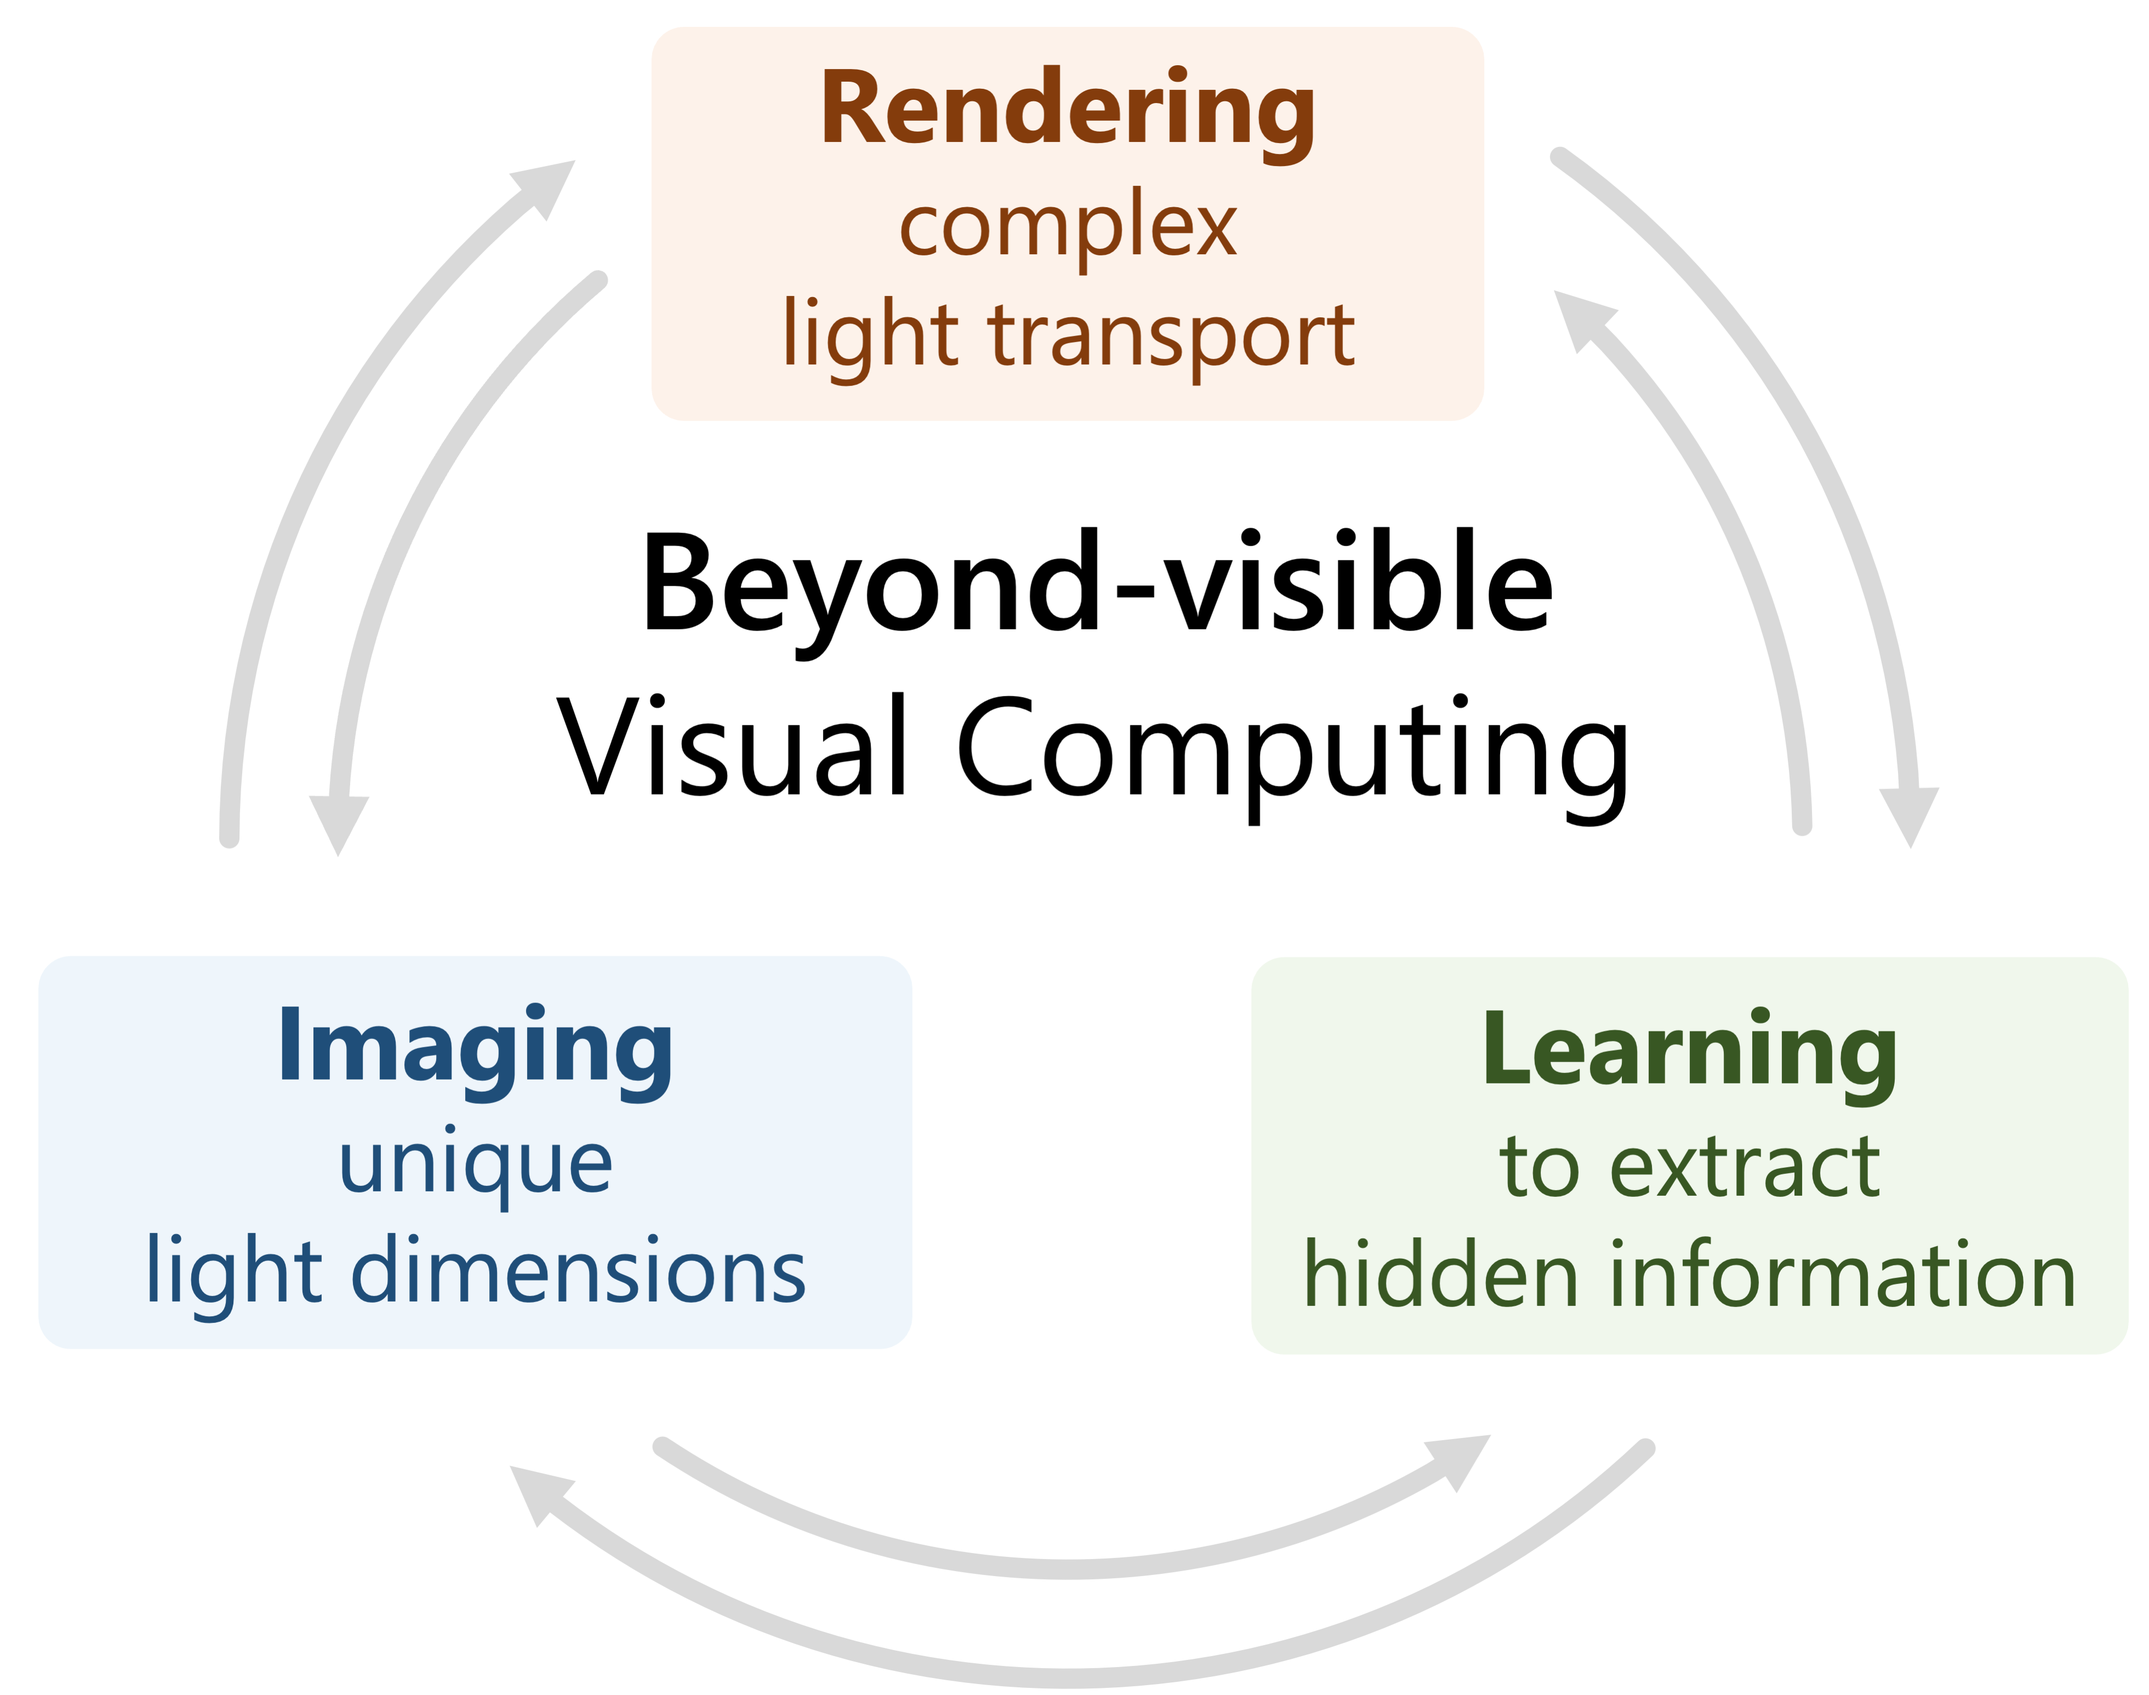
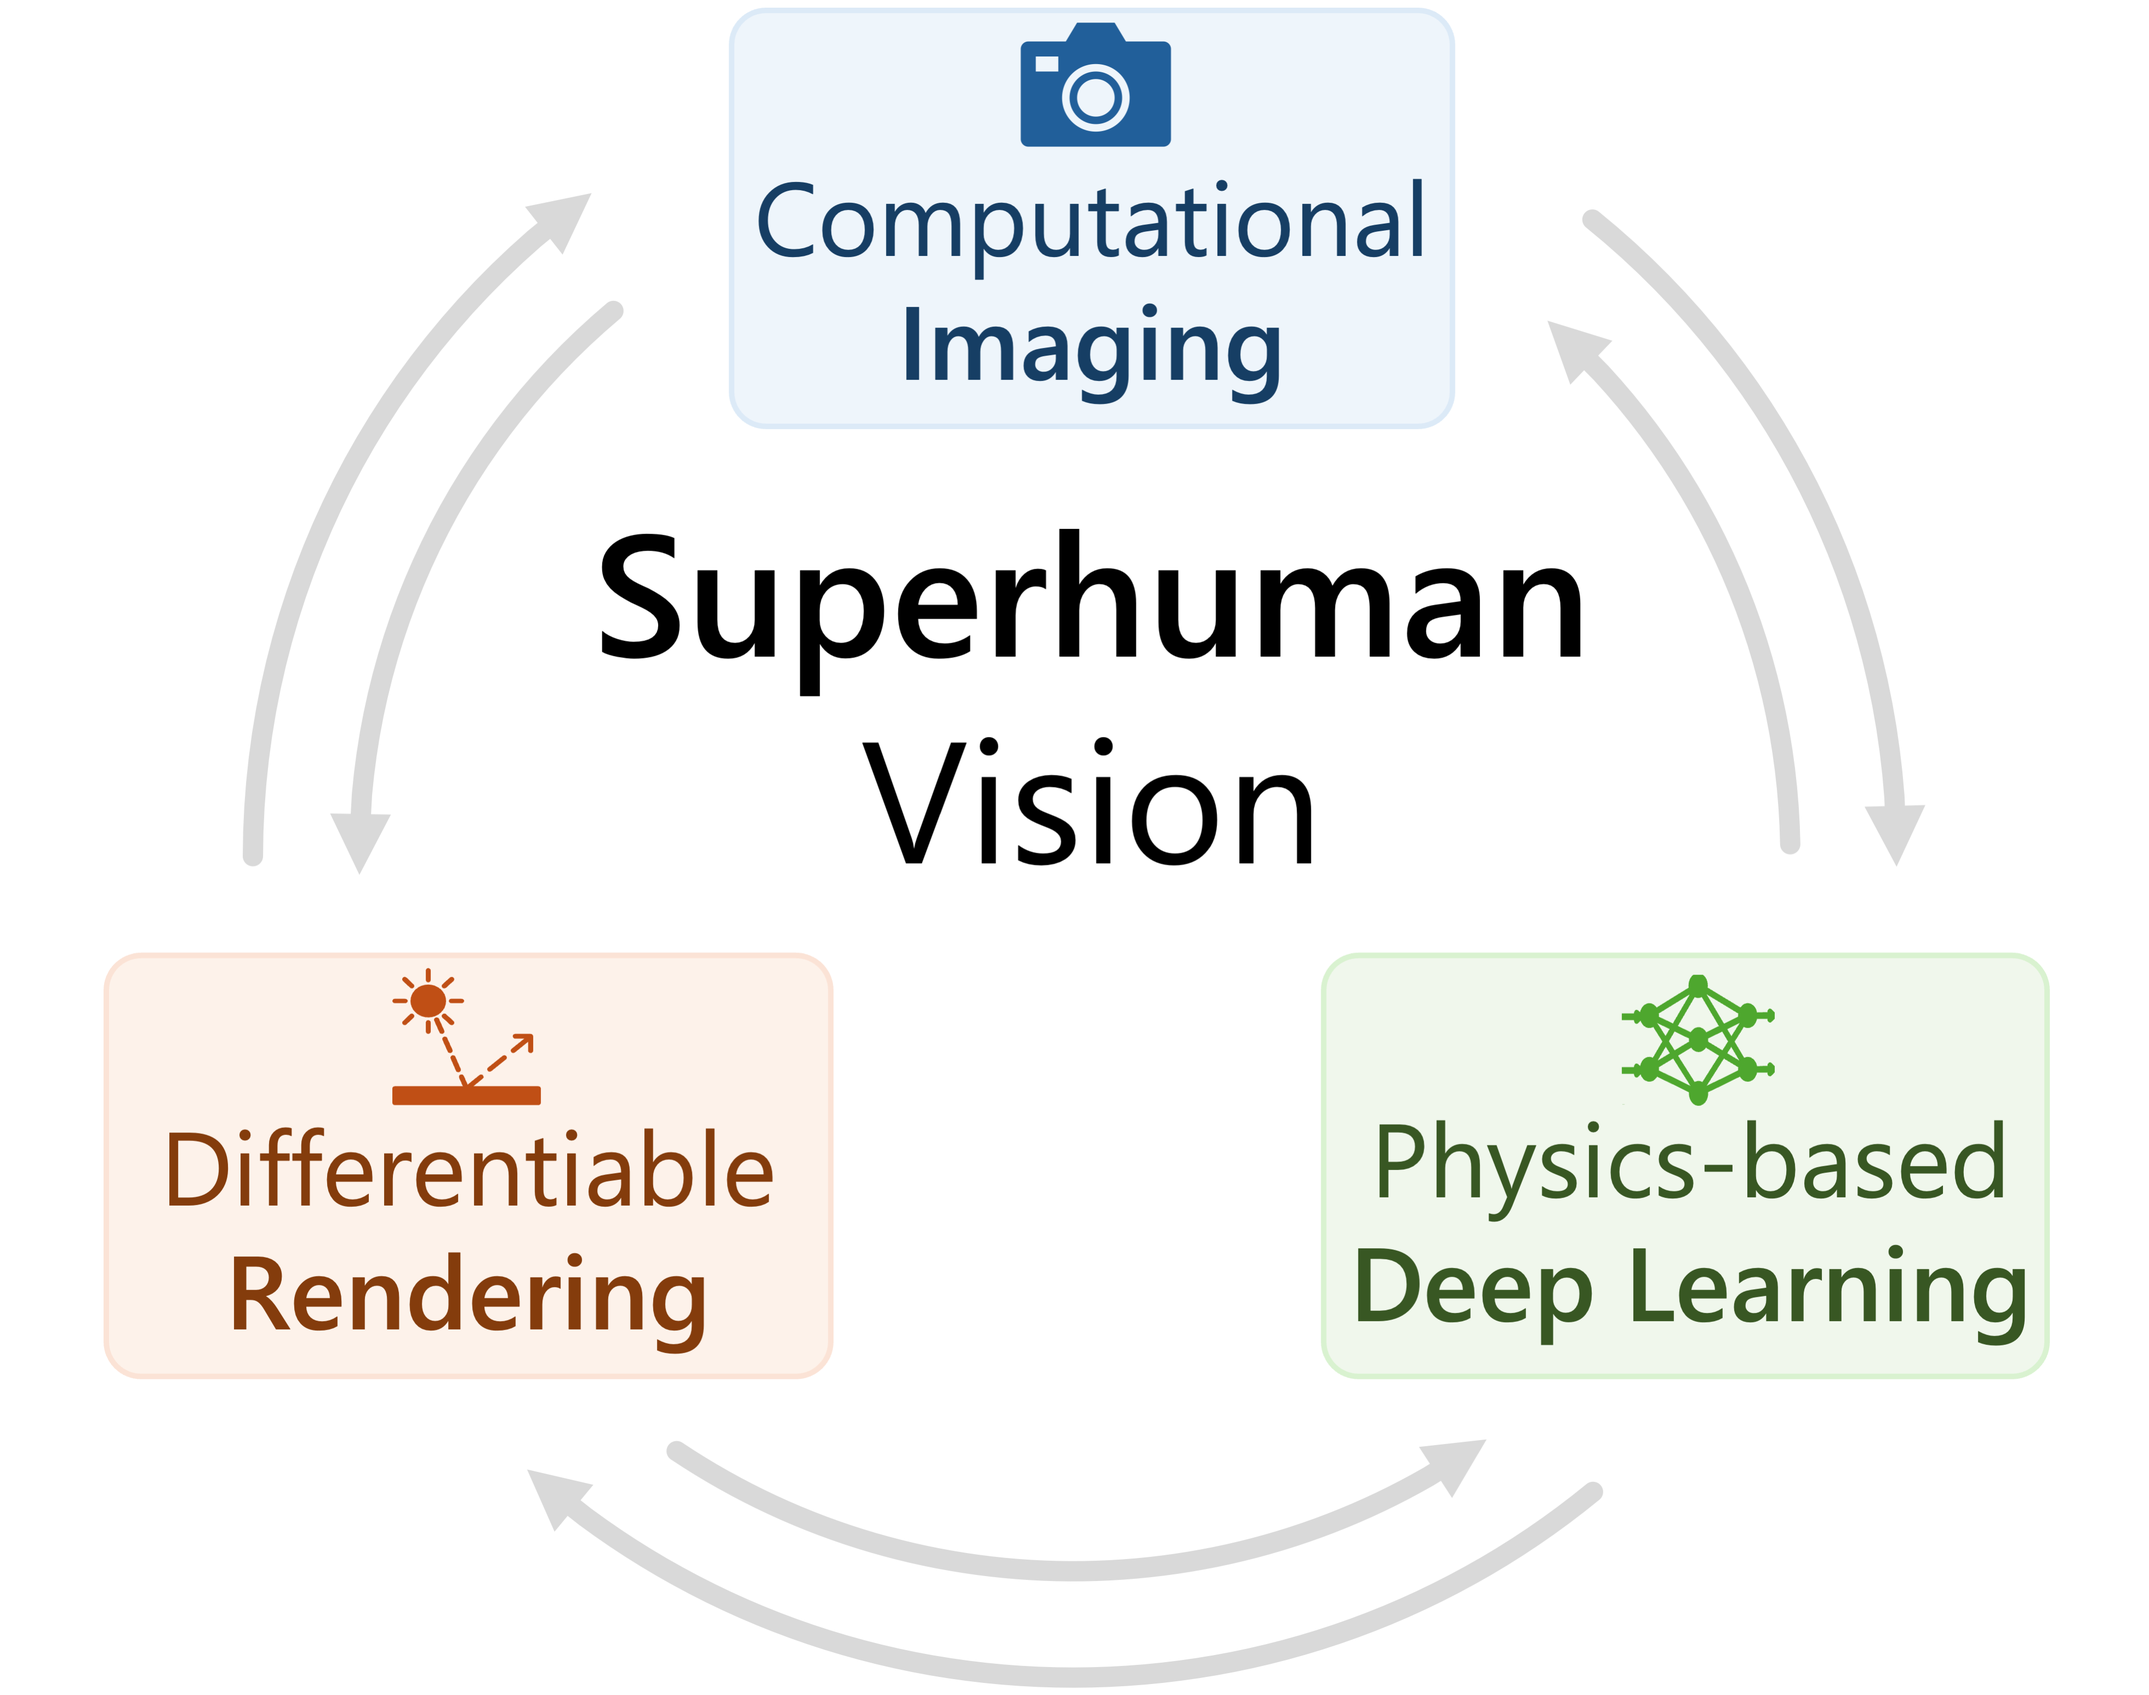
Added statement links and updated overview

diff --git a/index.html b/index.html
@@ -69,6 +69,8 @@
 		});
 	}
 </script>
+<base target="_blank">
+
 </head>
 <body data-gr-ext-installed="" data-new-gr-c-s-check-loaded="14.1186.0">
 <nav class="navbar navbar-expand-md navbar-light fixed-top bg-light" style="background-color: rgb(245,245,245) !important;">
@@ -118,17 +120,17 @@
 <h5> About Me </h5>
 </p>
 <p>
-                I am a Postdoctoral Associate at <a href="https://www.mit.edu/">MIT</a> <a href="https://www.media.mit.edu/">Media Lab</a> with <a href="https://www.media.mit.edu/people/raskar/overview/">Prof. Ramesh Raskar</a>. I received my Ph.D. from <a href="https://www.rice.edu/">Rice University</a> ECE Department where I was advised by <a href="https://computationalimaging.rice.edu/team/ashok-veeraraghavan/">Prof. Ashok Veeraraghavan</a>. My work has been recognized by Ralph Budd best thesis award, OSA best paper prize and fellowships by Texas Instruments and Qualcomm.
+                I am a Postdoctoral Associate at <a href="https://www.mit.edu/">MIT</a> <a href="https://www.media.mit.edu/">Media Lab</a> with <a href="https://www.media.mit.edu/people/raskar/overview/">Prof. Ramesh Raskar</a>. I received my Ph.D. from <a href="https://www.rice.edu/">Rice University</a> ECE Department where I was advised by <a href="https://computationalimaging.rice.edu/team/ashok-veeraraghavan/">Prof. Ashok Veeraraghavan</a>. Before Rice, I obtained B.Tech. and M.Tech from <a href="https://www.iitm.ac.in/">Indian Institute of Technology Madras</a>. My work has been recognized by Rice University's Best Ph.D. Thesis Award, Optica Best Paper Prize and fellowships by Texas Instruments and Qualcomm.
                 <span class="brmedium"></span>
 <span class="paper-title">I am on the 2024-2025 academic job market.</span>
-<span>Feel free to email me if you know of any relevant openings.</span>
+<!-- <span>Feel free to email me if you know of any relevant openings.</span> -->
+<span>Here is my <a href="https://drive.google.com/file/d/1ytAEIgTz-CKn0PFUZq7m9bXBDeXx61e7/view?usp=drive_link" target="_blank" rel="noopener noreferrer">CV</a> and <a href="https://drive.google.com/file/d/1nvqO32xxttCjTnhd0Ng-m3IRuETtA9gM/view?usp=drive_link" target="_blank" rel="noopener noreferrer">research</a>, <a href="https://drive.google.com/file/d/1ewgDrf77qBqqJxSwcrZUUbM9x77rFoyb/view?usp=drive_link" target="_blank" rel="noopener noreferrer">teaching</a> and <a href="https://drive.google.com/file/d/1nMUau1M_KuhFgrL8ygejN8XMtiOwTIkZ/view?usp=drive_link" target="_blank" rel="noopener noreferrer">diversity</a> statements.</span>
 <!-- <span> I am actively looking for self-motivated undergraduate and graduate students to collaborate. Feel free to email me.</span> -->
 </p>
 <h5 style="padding-top: 10px"> Research Overview </h5>
 </p>
 <p>
-                My research lies at the intersection of <span class="title">applied optics</span>, <span class="title">computer graphics</span>, and <span class="title">computer vision</span>. I develop intelligent systems that can uncover visual information <span class="title">invisible</span> to the human eye. Through <span class="title">beyond-visible visual computing</span>, these systems can, for example, <a href="index.html#Publications" id="SeeingAroundCorners" onclick="showPubs('SeeingAroundCorners');smoothScrollToSection(event,'#Publications');" style="">see beyond line-of-sight</a>, <a href="index.html#Publications" id="AR-VR" onclick="showPubs('AR-VR');smoothScrollToSection(event,'#Publications');" style="">reveal material properties of objects</a> and <a href="index.html#Publications" id="StressAnalysis" onclick="showPubs('StressAnalysis');smoothScrollToSection(event,'#Publications');" style="">detect internal mechanical stress</a>. By perceiving beyond human limits, my research enables critical applications such as navigation in adverse conditions, non-invasive biomedical imaging and smart infrastructure monitoring.
-
+                My research is on creating vision systems that surpass human perception, allowing machines to <span class="title">see the invisible</span>. These <span class="title">superhuman vision </span> systems can, for instance, <a href="index.html#Publications" id="SeeingAroundCorners" onclick="showPubs('SeeingAroundCorners');smoothScrollToSection(event,'#Publications');" style="">see beyond line-of-sight</a>, <a href="index.html#Publications" id="AR-VR" onclick="showPubs('AR-VR');smoothScrollToSection(event,'#Publications');" style="">reveal material properties of objects</a> and <a href="index.html#Publications" id="StressAnalysis" onclick="showPubs('StressAnalysis');smoothScrollToSection(event,'#Publications');" style="">detect internal mechanical stress</a>—enabling critical applications such as navigation in adverse conditions, noninvasive biomedical imaging and smart infrastructure monitoring.
 				<!-- My research lies at the intersection of <span class="title">applied optics</span>, <span class="title">computer graphics</span>, and <span class="title">computer vision</span>. I develop end-to-end visual computing systems that leverage novel cameras and algorithms to extract <span class="title">invisible </span> visual information. Through <span class="title">beyond-visible visual computing</span>, these systems can, for example, look around blind corners, reveal material properties of objects and detect internal mechanical stress. Beyond-visible visual computing enables critical applications including robust autonomous navigation, immersive virtual reality and non-invasive biomedical imaging.  -->
 <!-- My research lies at the intersection of <span class="title">applied optics</span>, <span class="title">computer vision</span> and <span class="title">machine learning</span>. I develop computational imaging systems that enhance our vision by allowing us to <span class="title">perceive what was previously invisible</span>. This involves the <span class="title">synergistic co-design</span> of advanced cameras that capture unique light properties and AI algorithms that can analyze complex light phenomena.These systems can transform critical applications including safe autonomous navigation, immersive virtual reality and non-invasive biomedical imaging.  -->
 </p>
@@ -145,18 +147,18 @@
 <image src="images/synergy_figure_website.png" style="width: 310px;"/>
 </div>
 <div class="col-md-8" style="padding-right: 0px; padding-top: 0px; padding-left: 0px">
-<p>
-    My research leverages the <span class="title">synergy between imaging, rendering and learning</span> using three thrusts: 
+<p> 
+    My research leverages the <span class="title">synergy between optics, graphics and machine learning</span> using three pillars: 
 </p>
 <ol class="intro">
 <li>
-<span class="title">Computational imaging of unique light dimensions</span>, such as <a href="index.html#Publications" id="Polarization" onclick="showPubs('Polarization');smoothScrollToSection(event,'#Publications');" style="">polarization</a> and <a href="index.html#Publications" id="Time-of-Flight" onclick="showPubs('Time-of-Flight');smoothScrollToSection(event,'#Publications');" style="">time-of-flight</a>. 
+<span class="title">Computational imaging</span> of unique light dimensions, such as <a href="index.html#Publications" id="Polarization" onclick="showPubs('Polarization');smoothScrollToSection(event,'#Publications');" style="">polarization</a> and <a href="index.html#Publications" id="Time-of-Flight" onclick="showPubs('Time-of-Flight');smoothScrollToSection(event,'#Publications');" style="">time-of-flight</a>. 
          </li>
 <li>
-<span class="title">Differentiable rendering of complex light transport</span>, such as <a href="index.html#Publications" id="SeeingAroundCorners" onclick="showPubs('SeeingAroundCorners');smoothScrollToSection(event,'#Publications');" style="">scattering</a> and <a href="index.html#Publications" id="StressAnalysis" onclick="showPubs('StressAnalysis');smoothScrollToSection(event,'#Publications');" style="">birefringence</a>. 
+<span class="title">Differentiable rendering</span> of complex light transport, such as <a href="index.html#Publications" id="SeeingAroundCorners" onclick="showPubs('SeeingAroundCorners');smoothScrollToSection(event,'#Publications');" style="">scattering</a> and <a href="index.html#Publications" id="StressAnalysis" onclick="showPubs('StressAnalysis');smoothScrollToSection(event,'#Publications');" style="">birefringence</a>. 
          </li>
 <li>
-<span class="title">Physics-based learning to extract hidden information</span>, such as through <a href="index.html#Publications" id="NeuralFields" onclick="showPubs('NeuralFields');smoothScrollToSection(event,'#Publications');" style="">neural representations</a> and <a href="index.html#Publications" id="DeepImagePriors" onclick="showPubs('DeepImagePriors');smoothScrollToSection(event,'#Publications');" style="">priors</a>. 
+<span class="title">Physics-based learning</span> to extract hidden information, such as through <a href="index.html#Publications" id="NeuralFields" onclick="showPubs('NeuralFields');smoothScrollToSection(event,'#Publications');" style="">neural representations</a> and <a href="index.html#Publications" id="DeepImagePriors" onclick="showPubs('DeepImagePriors');smoothScrollToSection(event,'#Publications');" style="">priors</a>. 
          </li>
 </ol>
 <p>
